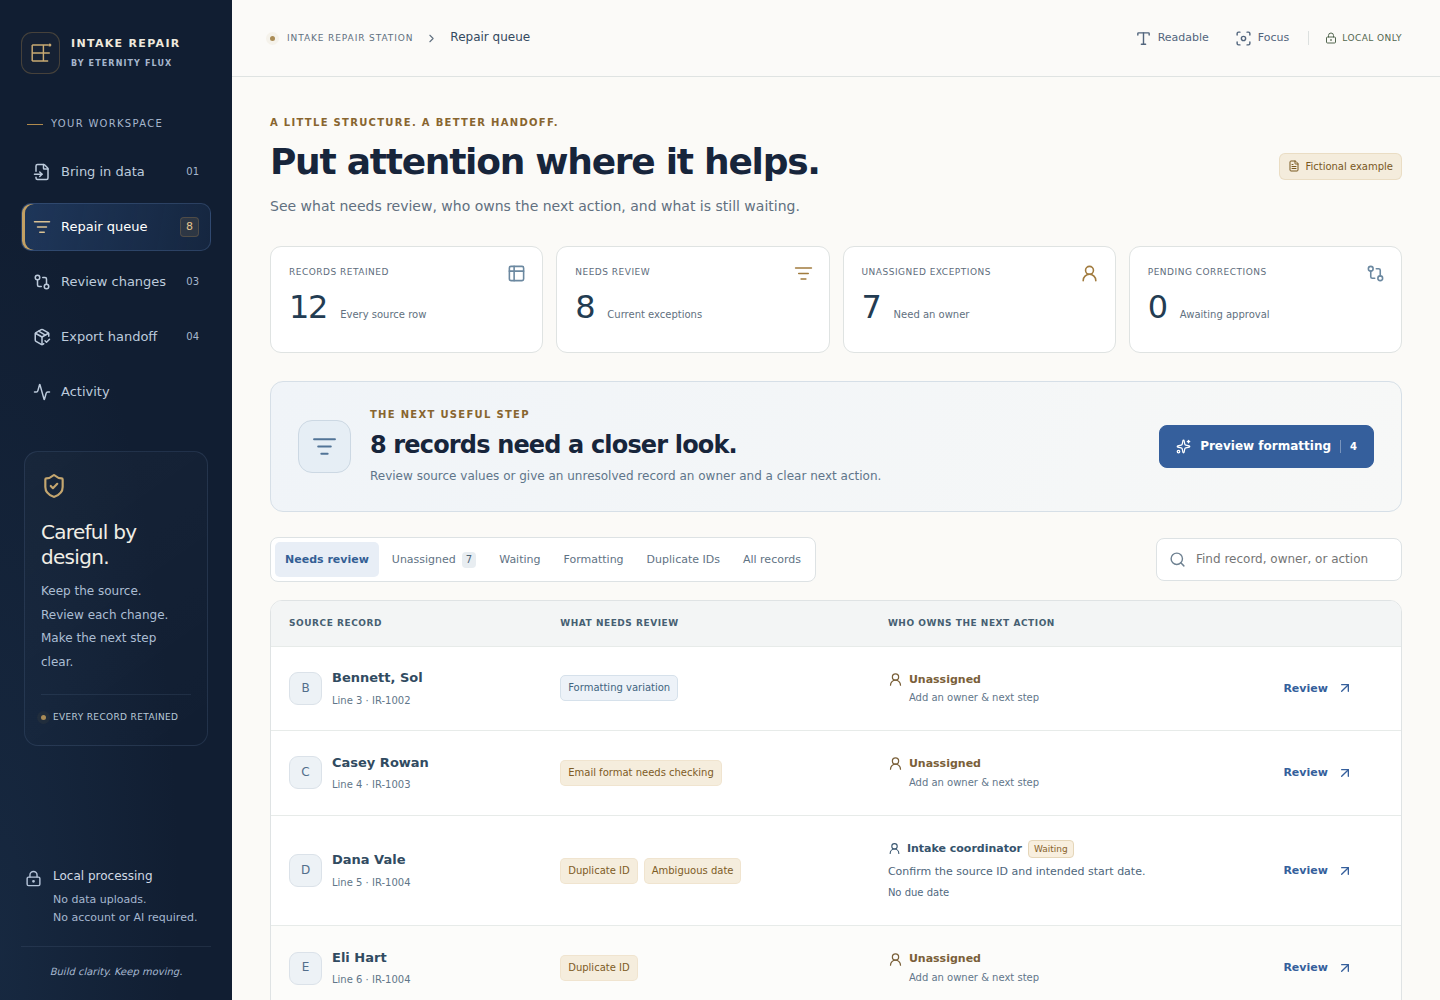
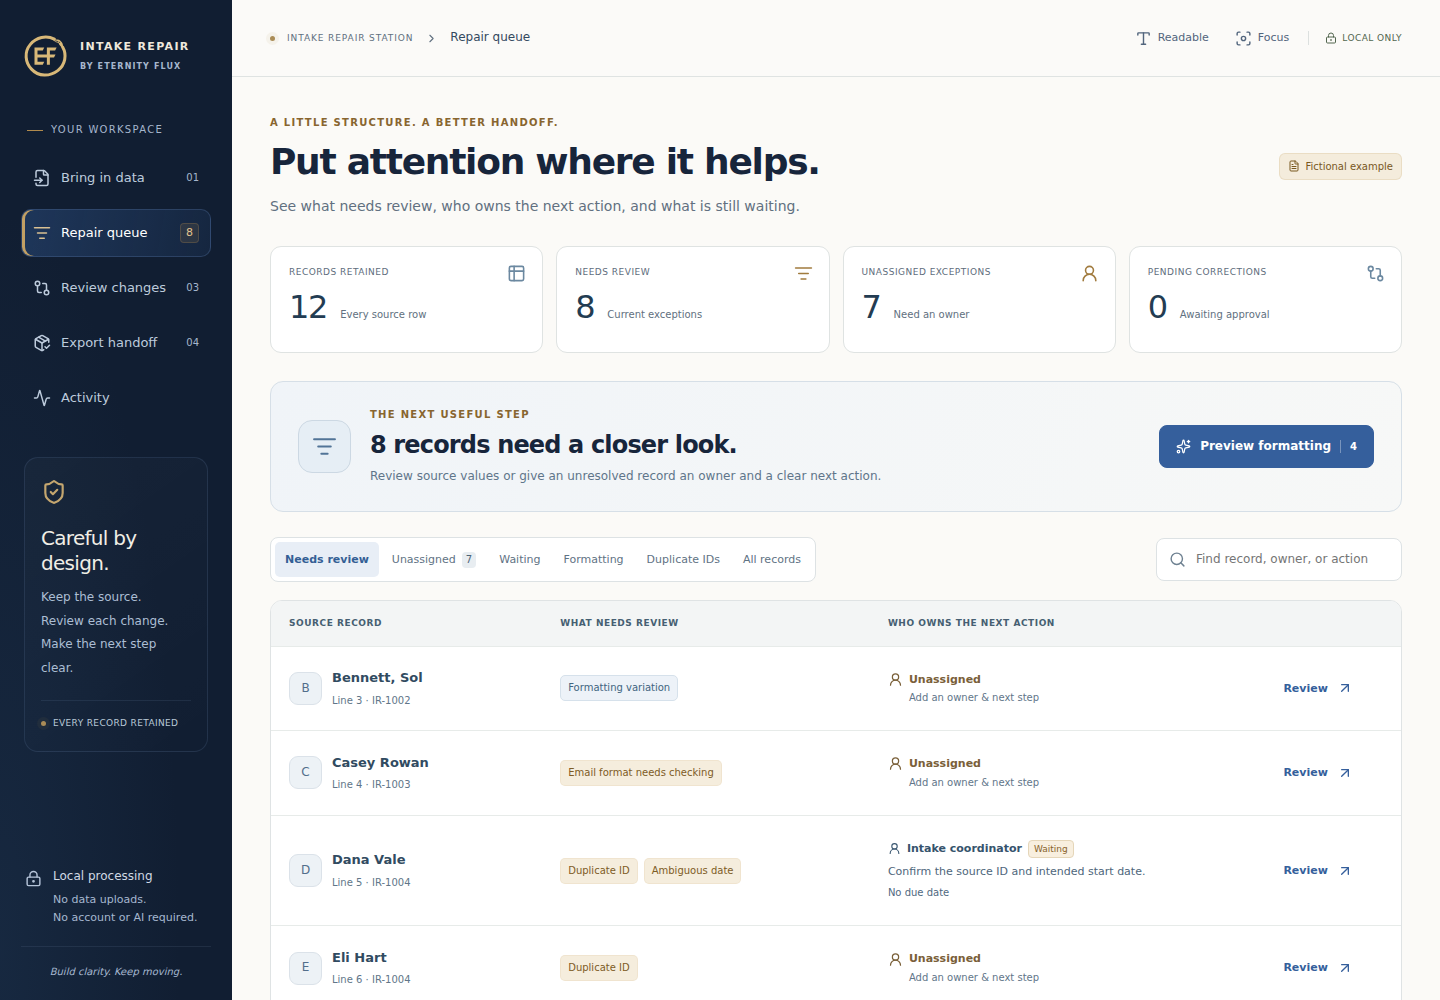
Introduce original Eternity Flux identity and three-level product guide
Replace the placeholder monogram and favicon with an editable EF ouroboros, include its Figma source and variants, and refresh the workspace screenshot. Explain the implemented workflow for casual, hybrid, and technical audiences while preserving offline behavior and existing sessions.

diff --git a/src/pages/intake-repair.css b/src/pages/intake-repair.css
@@ -77,15 +77,11 @@ input[type="checkbox"] { accent-color: var(--ir-blue); width: 16px; height: 16px
 .ir-mark {
   display: grid;
   place-items: center;
-  width: 39px;
-  height: 42px;
+  width: 48px;
+  height: 48px;
   flex-shrink: 0;
-  border: 1px solid #b08a4d50;
-  border-radius: 11px;
-  background: #b08a4d09;
-  color: #c9aa73;
 }
-.ir-mark svg { width: 32px; height: 32px; }
+.ir-mark img { display: block; width: 48px; height: 48px; }
 .ir-nav-label { display: flex; gap: 8px; align-items: center; margin: 42px 6px 16px !important; color: #a6b6cd; font-size: 10px; letter-spacing: .13em; }
 .ir-nav-label span { width: 16px; height: 1px; background: #b08a4d; }
 .ir-sidebar nav { display: flex; flex-direction: column; gap: 7px; }
@@ -558,7 +554,8 @@ input[type="checkbox"] { accent-color: var(--ir-blue); width: 16px; height: 16px
   .ir-app { display: block; }
   .ir-sidebar { position: static; width: auto; padding: 19px 22px 0; overflow: hidden; }
   .ir-brand { gap: 11px; }
-  .ir-mark { width: 34px; height: 36px; }
+  .ir-mark { width: 40px; height: 40px; }
+  .ir-mark img { width: 40px; height: 40px; }
   .ir-brand > span:last-child { font-size: 11px; }
   .ir-brand small { font-size: 8px; }
   .ir-sidebar nav { flex-direction: row; gap: 6px; margin: 18px -10px 0; padding: 0 0 12px; overflow-x: auto; }

diff --git a/src/pages/IntakeRepair.jsx b/src/pages/IntakeRepair.jsx
@@ -16,6 +16,7 @@ import {
   emptyCoordination, assignNextAction, recordEvent, restoreCoordination,
   coordinationCSV, activityCSV,
 } from '@/lib/coordination.mjs';
+import eternityFluxMark from '@/assets/brand/ef-ouroboros-gold.svg?inline';
 import './intake-repair.css';
 
 const STORAGE_KEY = 'intake-repair-station-session-v1';
@@ -125,10 +126,7 @@ function snapshotWithCoordination(dataset, changes, coordination) {
 
 function Mark() {
   return <span className="ir-mark" aria-hidden="true">
-    <svg viewBox="0 0 40 40" fill="none">
-      <path d="M9 10h20M9 20h16M9 30h20M9 10v20M23 10v20M23 20h8" stroke="currentColor" strokeWidth="1.8"/>
-      <circle cx="31" cy="10" r="2" fill="currentColor"/>
-    </svg>
+    <img src={eternityFluxMark} alt="" width="48" height="48" />
   </span>;
 }
 

diff --git a/docs/PRODUCT_GUIDE.md b/docs/PRODUCT_GUIDE.md
@@ -1,0 +1,158 @@
+# Product guide: three ways to understand the app
+
+This guide describes the current implementation. It uses one fictional training-program example at three levels of technical detail. Accounts, AI, cloud storage, and shared workspaces are future possibilities, not current features.
+
+## Level 1 — Casual: “Help me understand this from zero”
+
+**It helps you turn a messy list of people into a clear, reviewed list—and makes sure the unfinished work does not get forgotten.**
+
+Imagine you run a training program. Someone sends you a spreadsheet of participants. One person has a missing ID. Two different people share an ID. An email address looks wrong. A date could mean November 6 or June 11. You need to prepare a useful list for the next person without accidentally deleting anyone or making up information.
+
+The app gives you a place to work through that list carefully.
+
+### 1. Bring in the list
+
+The current version opens a **CSV**. That is a simple spreadsheet-like file: it stores rows and columns of text, without Excel's colors, formulas, or multiple tabs. You can export a sheet as CSV from spreadsheet software, choose that file in the app, or paste its CSV text. You can also try the built-in fictional example first.
+
+Right now, each list needs columns for a person's ID, name, email, status, and start date. Extra columns, such as notes, come along too.
+
+### 2. Tell the app what the columns mean
+
+Your spreadsheet might say “Full name,” while another spreadsheet says “Participant name.” You choose which column contains each kind of information. The app can suggest some matches, but you confirm them. This does not rename or rearrange your original file.
+
+### 3. See what needs attention
+
+The app points out things such as missing information, repeated IDs, a badly formatted email address, inconsistent status wording, or a date that needs checking. You can search the list and filter it to find unresolved records, duplicates, waiting follow-ups, and problems without an owner.
+
+For example, the fictional Dana Vale and Eli Hart share an ID. Dana also has the date `11/06/2026`. The app flags those issues. It does not decide that Dana and Eli are the same person, delete one of them, or guess which date Dana meant.
+
+### 4. Review simple tidying and enter information you have confirmed
+
+Some fixes are straightforward: removing extra spaces around a name or turning the status ` Active ` into `active`. The app offers these as proposed corrections.
+
+Other fixes require a person to check the source. If a participant's ID is missing, the app cannot know the real ID. Someone must find it. Once you have confirmed the information, you can enter the correction.
+
+### 5. Give unfinished work a person and a next step
+
+For Dana, you could enter:
+
+- Owner: **Intake coordinator**
+- Next action: **Confirm Dana's source ID and intended start date**
+- Status: **Waiting**
+- Due date: an optional date you choose
+
+That records who should handle the question. It does not email that person or automatically put a task in their calendar. At present, it is a clear note attached to the record and included in the handoff.
+
+Marking the follow-up “Action complete” does not make an incorrect date suddenly valid. The information itself still has to be corrected.
+
+### 6. Approve the changes
+
+The app shows the old and proposed values side by side. You approve the changes you mean to keep or undo the ones you do not want. The original stays available.
+
+You cannot export a reviewed handoff while corrections are still waiting for a decision. You can always save the original file or a backup of your work.
+
+### 7. Take the finished work with you
+
+You can download the rows that pass the checks, the rows that still need attention, or one ZIP—a package containing all the related files.
+
+The package includes the original list, reviewed results, unresolved problems, changes, owners and next actions, activity, and a backup that can reopen the work later. Nobody quietly disappears just because their information is difficult.
+
+In the built-in 12-person example, approving four simple formatting corrections produces **six ready records and six records that still need attention**. All 12 remain accounted for.
+
+### 8. Save before you leave
+
+Your work lives in the current browser tab by default. Save a session backup if you want to continue later. You can also choose **Remember on this device**, which saves in that browser profile. It is not a shared team account or an online backup.
+
+The website runs the work on your device. Your CSV is not uploaded by the app. The downloadable HTML copy can also run without an internet connection after you have downloaded it.
+
+**A short version you can say aloud:** “It helps people clean up messy participant lists without losing anyone. You review the fixes, assign the unanswered questions, and hand over both the usable data and a clear list of what still needs doing.”
+
+## Level 2 — Hybrid: “Give me the product and workflow, with some technical context”
+
+**It is a browser-based CSV review and handoff workspace for small operational datasets.** It combines data checks, human approval, and follow-up ownership in one workflow.
+
+Think of a program coordinator receiving a participant export before enrollment or onboarding. The file may contain duplicate IDs, missing values, status variants, and ambiguous dates. The goal is to prepare a reliable handoff while keeping the source and unresolved work traceable.
+
+The workflow is:
+
+1. **Import and map.** Open or paste a UTF-8 CSV and map its columns to five required fields: ID, name, email, status, and start date. The source can use different column names or a different column order. Other columns remain attached.
+2. **Inspect.** Deterministic rules identify missing values, duplicate IDs within that file, email-format problems, unrecognized statuses, invalid or ambiguous dates, formatting variations, and rows whose cell count does not match the header.
+3. **Stage.** Formatting suggestions and confirmed manual corrections become proposals. They are separate from the original data. The working preview can show those proposed values before approval.
+4. **Coordinate.** Attach an owner, next action, optional due date and note, and Open/Waiting/Action complete status to unresolved records. These follow-ups are independent of data validity.
+5. **Review.** Compare before and after, then approve or undo every proposal. Pending proposals block the generated handoff so unfinished decisions cannot slip into an export.
+6. **Export and resume.** Download reviewed rows, exceptions, an approved-change report, assignments, activity, and a portable JSON session. A ZIP packages these with the exact original and explanatory notes.
+
+The output is deliberately more useful than a “cleaned spreadsheet.” It tells the recipient which records passed, which still need review, what changed, and who owns each next step.
+
+For the same fictional cohort, four formatting proposals move two records into the ready group. The other six unresolved records still need source confirmation. Dana's assignment does not erase the duplicate-ID or date problem.
+
+“Ready” means the record passes this app's rules. It does not prove the email inbox exists, the person is eligible, or the source information is true.
+
+The current version handles files up to **1,000,000 bytes, 2,000 data rows, and 30 columns**. It is single-user and local to the browser. The hosted URL delivers the application; it does not currently provide cloud storage, shared workspaces, accounts, AI, or team notifications. Optional browser persistence and downloadable session backups provide continuity. The standalone HTML version provides the same core workflow offline.
+
+**A short version you can say aloud:** “It's a local CSV quality-review tool with an approval workflow and operational follow-through. It preserves the source, separates accepted corrections from unresolved exceptions, and exports a complete handoff with ownership and activity.”
+
+## Level 3 — Technical: “Show me the architecture and guarantees”
+
+**It is a static React application with a framework-independent JavaScript validation and review engine, client-side coordination state, and browser-generated CSV/JSON/ZIP outputs.** Vite produces the static distribution. `fflate` creates ZIP packages. No server-side data service is involved in the current workflow.
+
+### Ingestion and source model
+
+Input bytes are decoded using fatal UTF-8 decoding. A strict CSV parser supports quoted commas, doubled quotes, embedded line breaks, LF/CRLF, and an initial UTF-8 BOM. It retains blank records and source line references. Malformed quoting, invalid UTF-8, oversized inputs, invalid headers, and unsupported limits cause explicit failures rather than partial ingestion.
+
+A dataset stores raw source text, filename, original headers, column mapping, import metadata, and original cells. Source rows receive positional keys such as `row-4`. The key is independent of the business ID, so missing or duplicate IDs do not collapse record identity.
+
+The supported mapping contract is `id`, `name`, `email`, `status`, and `start_date`. Five distinct source columns must be selected. Extra columns and source ordering remain intact.
+
+### Validation and proposals
+
+Validation is deterministic. IDs are checked for presence and duplicate values after outer trimming. Email checking is syntactic. Statuses must resolve to the supported vocabulary; recognized formatting variations can be proposed, while semantic aliases still require confirmation. Dates must be real calendar dates in `YYYY-MM-DD` format. Ambiguous dates are flagged without interpretation.
+
+Corrections are held outside the source, keyed by source-row key and column index:
+
+```js
+changes[rowKey][columnIndex] = {
+  value: proposedValue,
+  approved: false
+};
+```
+
+The working preview applies proposals to copies of original cells. Exported reviewed values apply approved changes. Changing a proposal resets its approval; reverting to the original removes that correction. Original row structure remains authoritative, so cell-count mismatches remain exceptions until the source is repaired and reimported.
+
+### Coordination and history
+
+Assignments hold owner, next action, due date, follow-up status, note, and update time. They are independent of correction state and validation results. There is no inference that a completed follow-up resolves a data defect.
+
+Activity records local import, stage, approve, undo, assignment, export, backup, and restore actions. Entries have timestamps, descriptions, optional change details, and a default `You` actor label. This provides operational traceability within the workspace. It is not authenticated attribution, tamper-resistant audit storage, or evidence that an external call or email actually occurred.
+
+### Export invariants
+
+Generated handoff exports require every proposal to be approved or undone. On export:
+
+- Every source record belongs to either the ready partition or the exception partition.
+- `all-reviewed-rows.csv` preserves every source row in source order with approved corrections applied.
+- `original.csv` preserves the imported text rather than reserializing the parsed rows.
+- Approved corrections appear in `change-log.csv`; assignments and activity remain separate reports.
+- Generated CSV fields receive correct CSV escaping. Formula-like leading characters are prefixed with an apostrophe by default; this can intentionally alter exported representation. The original download is not transformed.
+
+The nine ZIP entries are `original.csv`, `clean.csv`, `exceptions.csv`, `all-reviewed-rows.csv`, `change-log.csv`, `assignments.csv`, `activity.csv`, `session.json`, and `README.txt`.
+
+### Persistence and deployment boundary
+
+Active state lives in memory. Explicit opt-in serializes it to browser storage. Versioned JSON snapshots retain source, mapping, changes, assignments, and events. Restore reconstructs the dataset and validates bounded structures; it does not merge concurrent sessions or execute imported instructions.
+
+The app has no authentication, remote data API, AI provider integration, telemetry, database, or collaborative synchronization. A hosted page requests its static assets from the host; CSV operations themselves remain local. The offline build inlines its JavaScript, CSS, and icon into one HTML document. There is no service worker or installed-PWA guarantee.
+
+**A short version you can say aloud:** “It's a local-first, human-reviewed CSV repair application with preserved source data, separate proposed corrections, deterministic validation, independently modeled follow-up ownership, and reconciled export partitions. The frontend is React, the engine is plain JavaScript, and the current deployment is entirely static.”
+
+## Claims to avoid in every explanation
+
+- “It automatically fixes bad data.” It proposes limited formatting corrections and accepts confirmed manual edits.
+- “It verifies people's identities or emails.” It checks specified formats and relationships within one file.
+- “It is a shared CRM.” It is currently a single-browser review workspace.
+- “Assigning someone notifies them.” Current owners are labels in the local workspace and exported handoff.
+- “Everything is permanently saved.” Persistence is optional; backups are the portable continuation mechanism.
+- “It has a verified audit trail.” The activity is local and editable; there are no authenticated actors.
+- “The cloud app stores your files.” The hosted application is currently static and does not upload the CSV.
+- “Every CSV schema is supported.” The first version still requires the five-field intake contract.
+

diff --git a/docs/BRANDING.md b/docs/BRANDING.md
@@ -1,0 +1,45 @@
+# Eternity Flux identity
+
+The application uses an original **Ouroboros EF** mark: a continuous serpent
+surrounding custom geometric E and F letterforms. It represents the umbrella
+Eternity Flux identity and the idea of **forever flowing**.
+
+## Editable source
+
+[Open the identity file in Figma](https://www.figma.com/design/eVpYzF8Vit3u6oO67m13Ix/Eternity-Flux-Forever-Flowing-Identity?node-id=1-2).
+
+The SVG artwork was authored as vector paths and imported into Figma as editable
+vector node trees. It has no font or bitmap dependency. The Figma file contains
+the primary gold and bronze marks and an alternate infinity-serpent direction.
+
+| Asset | Use |
+| --- | --- |
+| `src/assets/brand/ef-ouroboros-gold.svg` | Primary mark on midnight backgrounds |
+| `src/assets/brand/ef-ouroboros-bronze.svg` | Primary mark on light backgrounds |
+| `src/assets/brand/ef-ouroboros-ink.svg` | Single-color dark mark |
+| `src/assets/brand/ef-infinity-serpent-gold.svg` | Alternate, wider signature |
+| `public/favicon.svg` | Primary geometry on a midnight tile |
+
+![Ouroboros and infinity-serpent EF marks on dark and light backgrounds, with compact-size examples.](images/ef-identity.png)
+
+## In the application
+
+Use the circular ouroboros as the compact application mark. Preserve its aspect
+ratio and leave clear space around it. The main navigation uses it at 48 pixels,
+with a 40-pixel treatment on small screens. The gold is `#D8B878`; the dark tile
+is `#102433`.
+
+The application embeds the SVG in its JavaScript build so the portable HTML
+remains self-contained. The favicon is embedded by the offline build script.
+Updating the mark must not introduce a remote image request into offline mode.
+
+## License and identity
+
+The software and included artwork use the repository's MIT license. Preserve
+the applicable copyright and license notices when redistributing them.
+The Eternity Flux name and mark identify this project's origin; inclusion of
+the artwork does not imply that Eternity Flux endorses a modified distribution.
+Make the authorship and identity of a fork clear to its users.
+
+A product rename does not require a new MIT license. Keep existing browser
+storage identifiers and session formats compatible when changing visible names.

diff --git a/README.md b/README.md
@@ -12,6 +12,8 @@ Start with the fictional example to try the complete workflow. The offline downl
 
 ![The repair queue with fictional cohort records, visible data issues, and a waiting follow-up for Dana Vale assigned to Intake coordinator.](docs/images/workspace.png)
 
+Read the [three-level product guide](docs/PRODUCT_GUIDE.md) for a plain-language walkthrough, an operational explanation, and the technical architecture.
+
 ## A useful first run
 
 Choose **Try fictional example** to explore a small training cohort with duplicate IDs, missing information, inconsistent formatting, and dates that need confirmation. The names and email addresses are fictional.
@@ -128,3 +130,5 @@ Read [Contributing](CONTRIBUTING.md) for the development workflow and [Security]
 Intake Repair Station is available under the [MIT License](LICENSE). You can use, modify, and redistribute it under those terms. Dependencies retain their own licenses; see [Third-party notices](THIRD_PARTY_NOTICES.md). Production and portable builds include the applicable notices.
 
 Created by [Mohsin Siddiqi](https://mohsinsiddiqi.nyc).
+
+The original Eternity Flux ouroboros mark and editable Figma source are documented in [Branding](docs/BRANDING.md).

diff --git a/CHANGELOG.md b/CHANGELOG.md
@@ -2,6 +2,12 @@
 
 ## Unreleased
 
+### Identity and documentation
+
+- Replaced the placeholder EF mark with an original ouroboros monogram and matching favicon.
+- Added editable vector artwork, a Figma source link, brand usage notes, and a three-level product guide.
+- Refreshed the repository workspace screenshot without changing the CSV or session formats.
+
 ### Added
 
 - Local CSV import with confirmed source-column mapping and preservation of original headers and values.
